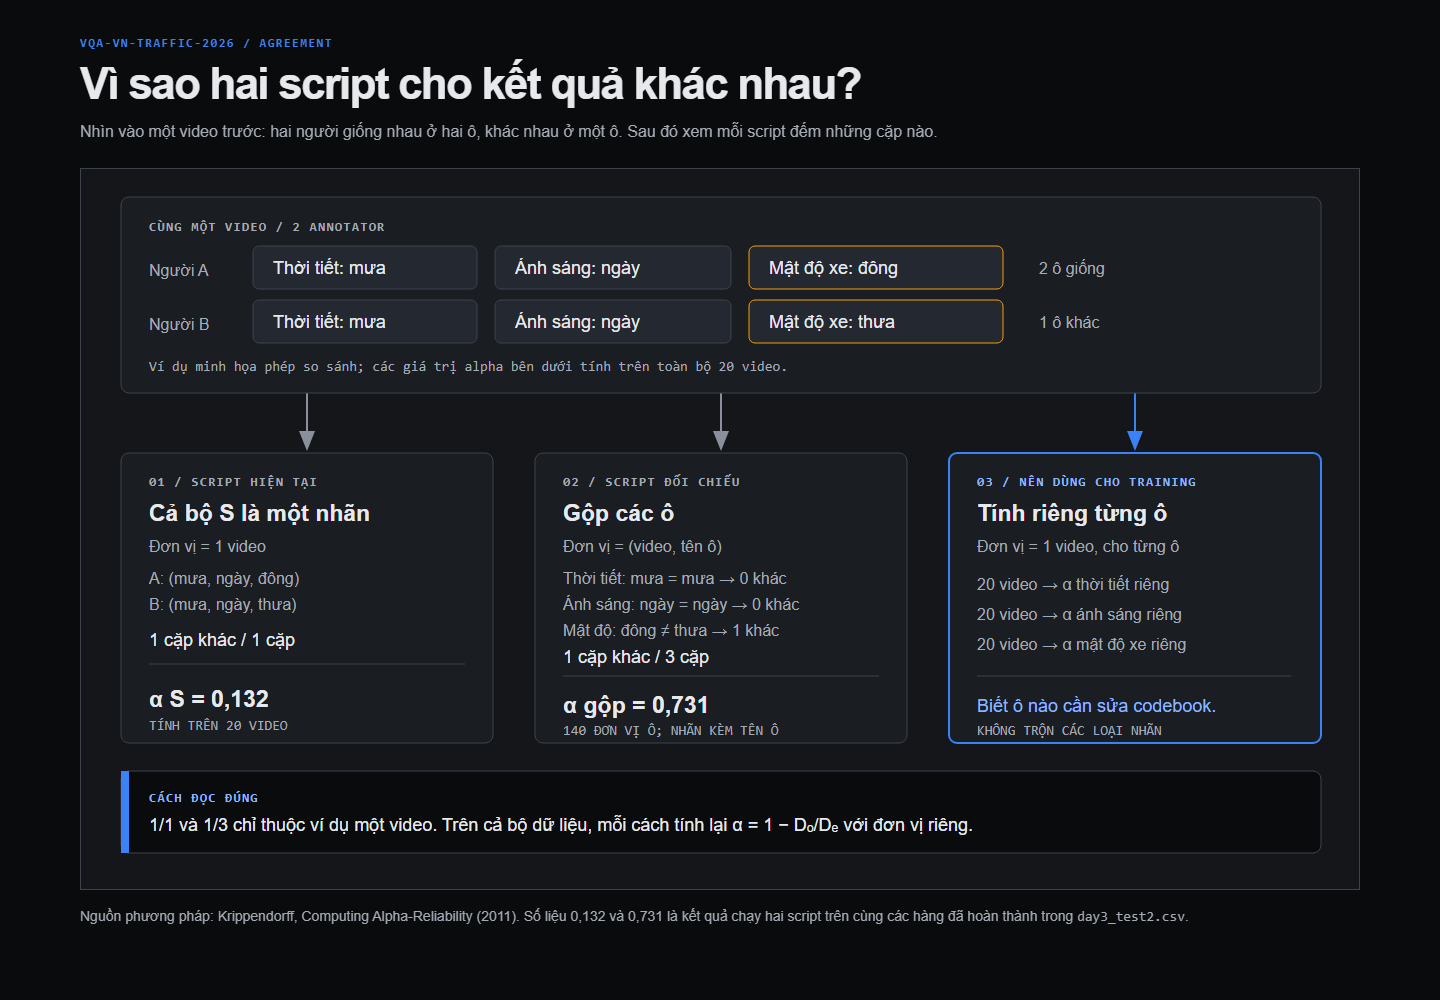
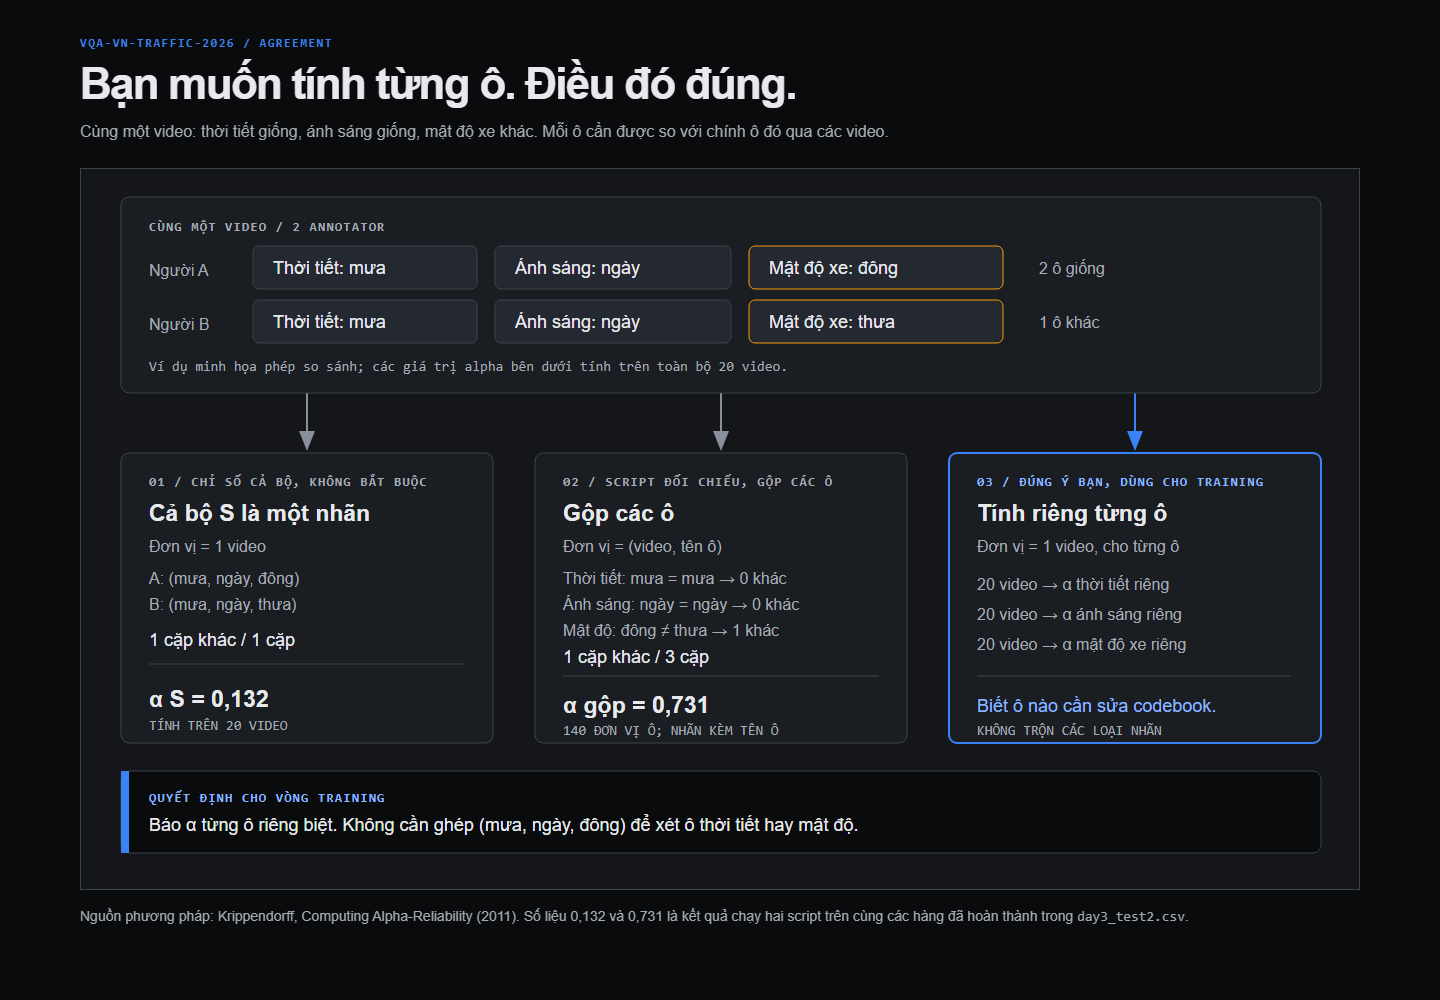
Clarify per-field agreement as training metric

diff --git a/docs/research/agreement-two-methods-diagram.html b/docs/research/agreement-two-methods-diagram.html
@@ -3,7 +3,7 @@
 <head>
   <meta charset="utf-8">
   <meta name="viewport" content="width=device-width, initial-scale=1">
-  <title>Ba cách đọc độ đồng thuận nhóm S</title>
+  <title>Độ đồng thuận theo từng ô và cả bộ nhãn</title>
   <link href="https://fonts.googleapis.com/css2?family=Geist:wght@400;500;600;700&amp;family=Geist+Mono:wght@400;500;600&amp;display=swap" rel="stylesheet">
   <style>
     :root { color-scheme: dark; --paper: #0a0b0d; --surface: #14161a; --surface-2: #1a1d22; --ink: #e7e9ec; --muted: #a5abb5; --rule: #3d434d; --accent: #3b82f6; --warning: #f59e0b; }
@@ -28,11 +28,11 @@
 <body>
   <main>
     <p class="eyebrow">VQA-VN-Traffic-2026 / Agreement</p>
-    <h1>Vì sao hai script cho kết quả khác nhau?</h1>
-    <p class="intro">Nhìn vào một video trước: hai người giống nhau ở hai ô, khác nhau ở một ô. Sau đó xem mỗi script đếm những cặp nào.</p>
+    <h1>Bạn muốn tính từng ô. Điều đó đúng.</h1>
+    <p class="intro">Cùng một video: thời tiết giống, ánh sáng giống, mật độ xe khác. Mỗi ô cần được so với chính ô đó qua các video.</p>
     <div class="diagram-container">
       <svg viewBox="0 0 1280 720" xmlns="http://www.w3.org/2000/svg" role="img" aria-labelledby="agreement-two-methods-diagram-title agreement-two-methods-diagram-desc">
-        <title id="agreement-two-methods-diagram-title">So sánh ba cách tính độ đồng thuận nhóm S</title>
+        <title id="agreement-two-methods-diagram-title">Độ đồng thuận theo từng ô và cả bộ nhãn</title>
         <desc id="agreement-two-methods-diagram-desc">Trong một video, hai người giống nhau ở thời tiết và ánh sáng, khác mật độ xe. Cách tính cả bộ tạo một cặp khác trên một cặp; cách gộp ô tạo một cặp khác trên ba cặp. Alpha trên toàn bộ dữ liệu lần lượt là 0,132 và 0,731. Để sửa codebook, tính alpha riêng cho từng ô.</desc>
         <defs>
           <marker id="arrow" markerWidth="10" markerHeight="8" refX="8" refY="4" orient="auto"><path d="M0 0 L10 4 L0 8 Z" fill="#8a909b"/></marker>
@@ -66,7 +66,7 @@
         <text x="68" y="202" class="metric">Ví dụ minh họa phép so sánh; các giá trị alpha bên dưới tính trên toàn bộ 20 video.</text>
 
         <rect x="40" y="284" width="372" height="290" rx="8" fill="#1a1d22" stroke="#3d434d"/>
-        <text x="68" y="317" class="eyebrow-svg">01 / SCRIPT HIỆN TẠI</text>
+        <text x="68" y="317" class="eyebrow-svg">01 / CHỈ SỐ CẢ BỘ, KHÔNG BẮT BUỘC</text>
         <text x="68" y="352" class="heading">Cả bộ S là một nhãn</text>
         <text x="68" y="383" class="small">Đơn vị = 1 video</text>
         <text x="68" y="415" class="small">A: (mưa, ngày, đông)</text>
@@ -77,7 +77,7 @@
         <text x="68" y="561" class="metric">TÍNH TRÊN 20 VIDEO</text>
 
         <rect x="454" y="284" width="372" height="290" rx="8" fill="#1a1d22" stroke="#3d434d"/>
-        <text x="482" y="317" class="eyebrow-svg">02 / SCRIPT ĐỐI CHIẾU</text>
+        <text x="482" y="317" class="eyebrow-svg">02 / SCRIPT ĐỐI CHIẾU, GỘP CÁC Ô</text>
         <text x="482" y="352" class="heading">Gộp các ô</text>
         <text x="482" y="383" class="small">Đơn vị = (video, tên ô)</text>
         <text x="482" y="415" class="small">Thời tiết: mưa = mưa  →  0 khác</text>
@@ -89,7 +89,7 @@
         <text x="482" y="566" class="metric">140 ĐƠN VỊ Ô; NHÃN KÈM TÊN Ô</text>
 
         <rect x="868" y="284" width="372" height="290" rx="8" fill="#1a1d22" stroke="#3b82f6" stroke-width="2"/>
-        <text x="896" y="317" class="eyebrow-svg" style="fill:#8ab6ff">03 / NÊN DÙNG CHO TRAINING</text>
+        <text x="896" y="317" class="eyebrow-svg" style="fill:#8ab6ff">03 / ĐÚNG Ý BẠN, DÙNG CHO TRAINING</text>
         <text x="896" y="352" class="heading">Tính riêng từng ô</text>
         <text x="896" y="383" class="small">Đơn vị = 1 video, cho từng ô</text>
         <text x="896" y="421" class="small">20 video → α thời tiết riêng</text>
@@ -101,8 +101,8 @@
 
         <rect x="40" y="602" width="1200" height="82" rx="8" fill="#0a0b0d" stroke="#3d434d"/>
         <rect x="40" y="602" width="8" height="82" fill="#3b82f6"/>
-        <text x="68" y="633" class="eyebrow-svg" style="fill:#8ab6ff">CÁCH ĐỌC ĐÚNG</text>
-        <text x="68" y="662" class="body">1/1 và 1/3 chỉ thuộc ví dụ một video. Trên cả bộ dữ liệu, mỗi cách tính lại α = 1 − Dₒ/Dₑ với đơn vị riêng.</text>
+        <text x="68" y="633" class="eyebrow-svg" style="fill:#8ab6ff">QUYẾT ĐỊNH CHO VÒNG TRAINING</text>
+        <text x="68" y="662" class="body">Báo α từng ô riêng biệt. Không cần ghép (mưa, ngày, đông) để xét ô thời tiết hay mật độ.</text>
       </svg>
     </div>
     <p class="note">Nguồn phương pháp: Krippendorff, Computing Alpha-Reliability (2011). Số liệu 0,132 và 0,731 là kết quả chạy hai script trên cùng các hàng đã hoàn thành trong <code>day3_test2.csv</code>.</p>
